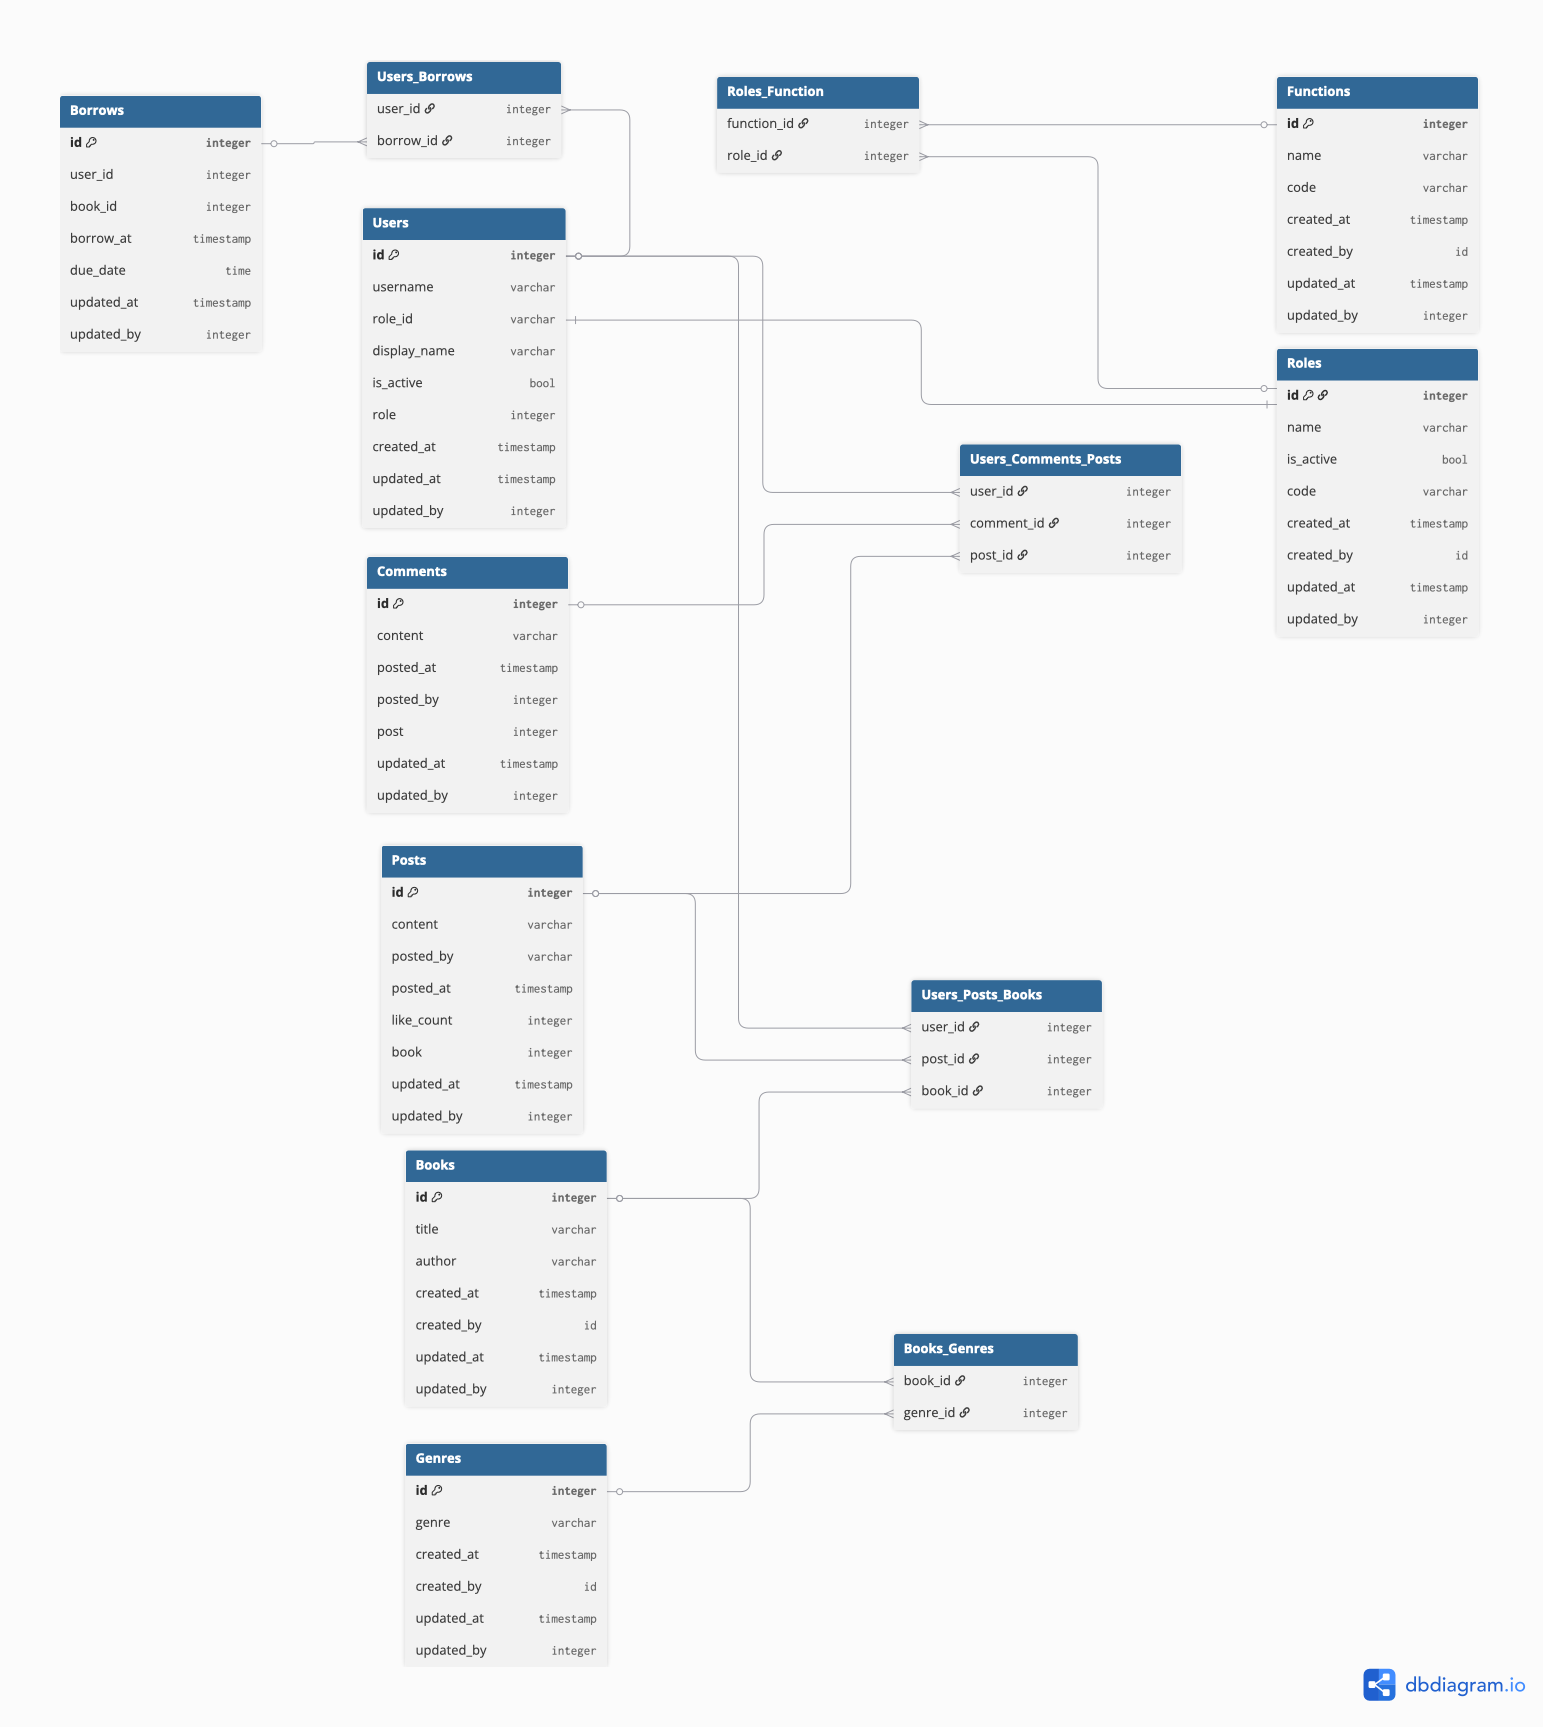
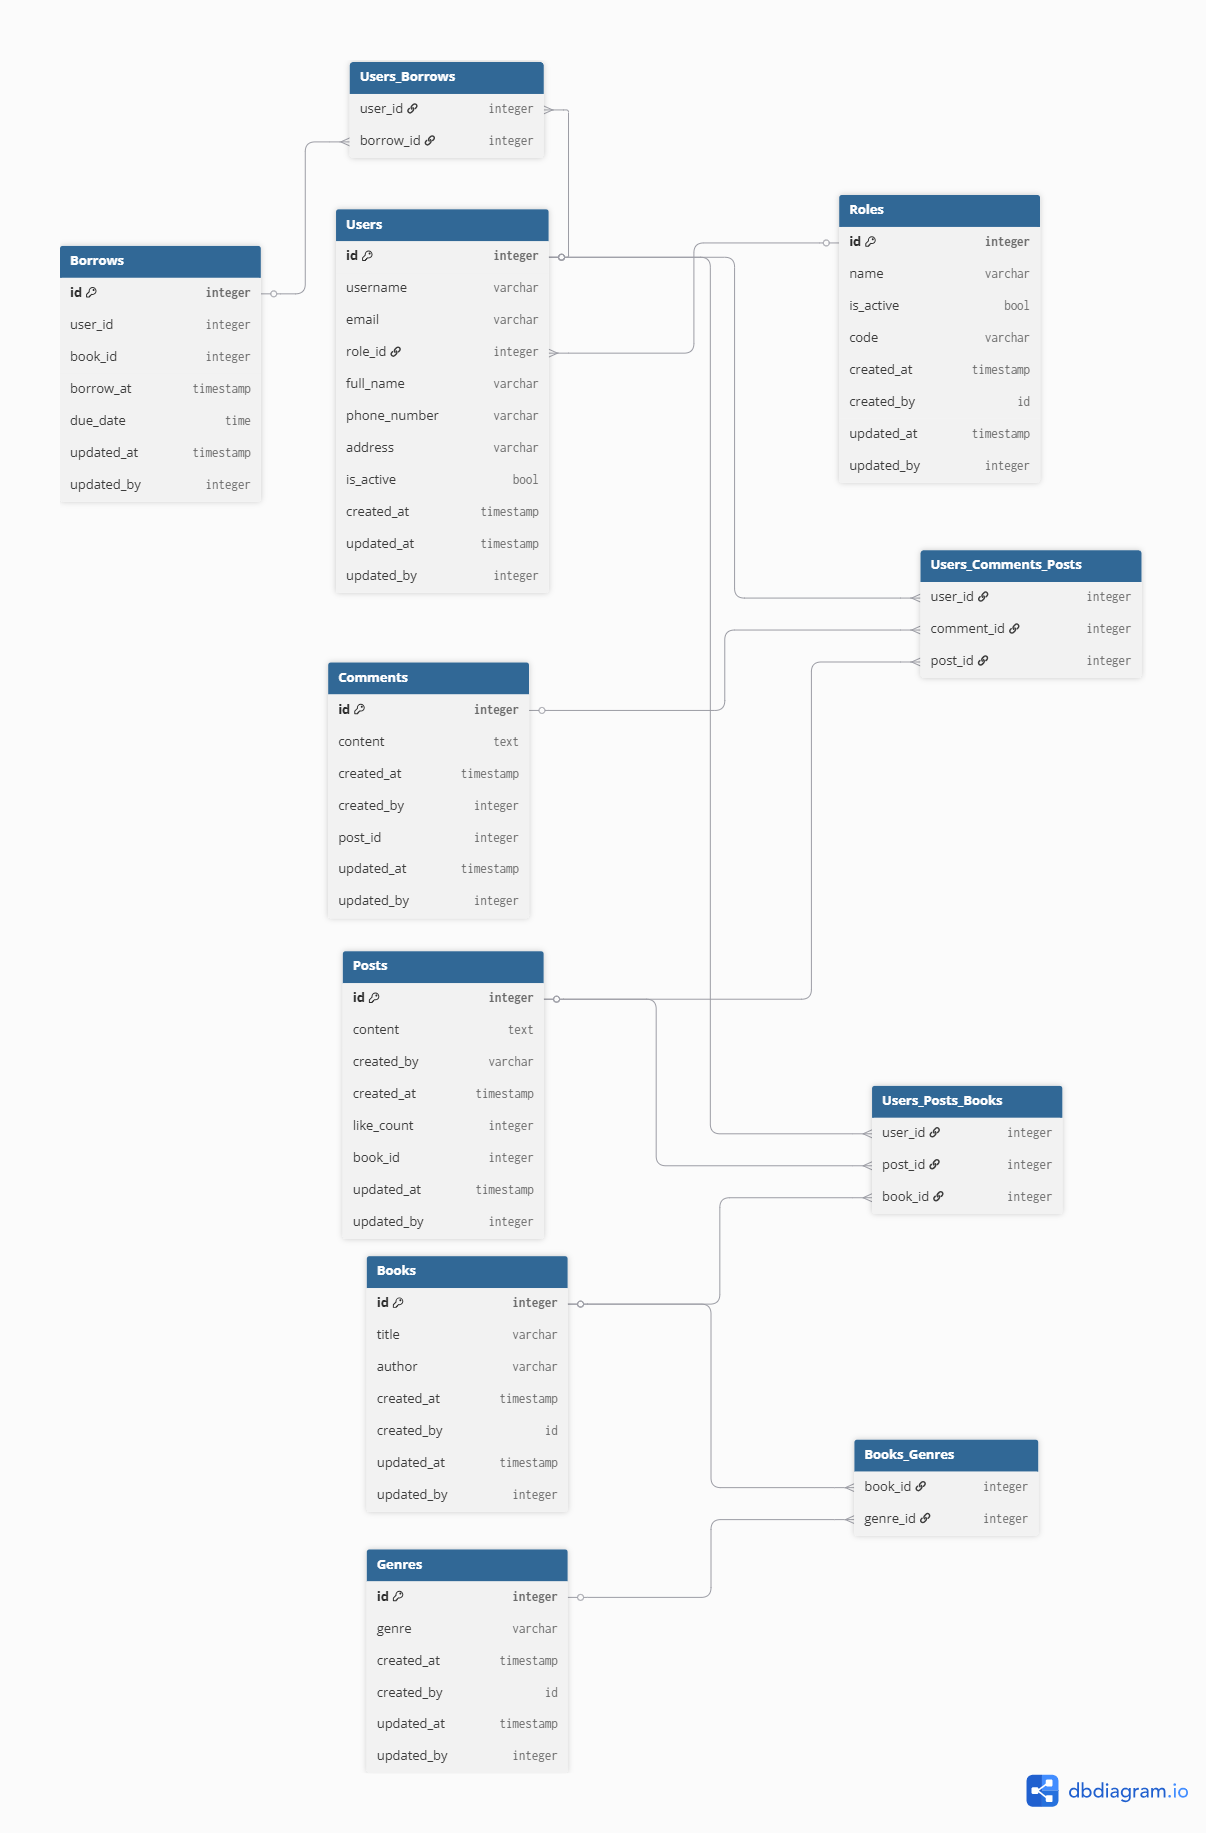
Add models

diff --git a/src/main/java/com/example/library_management/service/AuthService.java b/src/main/java/com/example/library_management/service/AuthService.java
@@ -8,6 +8,7 @@ import com.example.library_management.dto.UserResponse;
 import com.example.library_management.exception.AuthException;
 import com.example.library_management.model.Role;
 import com.example.library_management.model.User;
+import com.example.library_management.repository.RoleRepository;
 import com.example.library_management.repository.UserRepository;
 import org.springframework.beans.factory.annotation.Autowired;
 import org.springframework.security.authentication.AuthenticationManager;
@@ -24,6 +25,9 @@ public class AuthService {
     private UserRepository userRepository;
 
     @Autowired
+    private RoleRepository roleRepository;
+
+    @Autowired
     private PasswordEncoder passwordEncoder;
 
     @Autowired
@@ -31,23 +35,6 @@ public class AuthService {
 
     @Autowired
     private JwtUtil jwtUtil;
-
-//    public LoginResponse login(LoginRequest request) {
-//        // authenticate — throws exception if wrong credentials
-//        Authentication auth = authenticationManager.authenticate(
-//                new UsernamePasswordAuthenticationToken(
-//                        request.getUsername(),
-//                        request.getPassword()
-//                )
-//        );
-//
-//        // generate JWT token
-//        String token = jwtUtil.generateToken(auth.getName());
-//
-//        User user = userRepository.findByUsername(auth.getName()).orElseThrow();
-//
-//        return new LoginResponse(token, user.getUsername(), user.getRole().name());
-//    }
 
     public LoginResponse login(LoginRequest request) {
         try {
@@ -60,7 +47,7 @@ public class AuthService {
 
             String token = jwtUtil.generateToken(auth.getName());
             User user = userRepository.findByUsername(auth.getName()).orElseThrow();
-            return new LoginResponse(token, user.getUsername(), user.getRole().name());
+            return new LoginResponse(token, user.getUsername(), user.getRole().getName());
 
         } catch (org.springframework.security.authentication.BadCredentialsException e) {
             throw new AuthException("Invalid username or password");
@@ -72,10 +59,15 @@ public class AuthService {
             throw new RuntimeException("Username already taken");
         }
 
+        Role defaultRole = roleRepository.findByName("ROLE_USER")
+                .orElseThrow(() -> new RuntimeException("Error: Default Role 'ROLE_USER' not found in the database."));
+
         User user = new User();
         user.setUsername(request.getUsername());
+        user.setFullName(request.getFullName());
+        user.setPhoneNumber(request.getPhoneNumber());
         user.setPassword(passwordEncoder.encode(request.getPassword()));
-        user.setRole(Role.ROLE_USER);
+        user.setRole(defaultRole);
 
         userRepository.save(user);
         return "User registered successfully";
@@ -89,11 +81,14 @@ public class AuthService {
 
         User user = userRepository.findByUsername(username)
                 .orElseThrow(() -> new RuntimeException("User not found"));
-
         return new UserResponse(
                 user.getId(),
                 user.getUsername(),
-                user.getRole().name(),
+                user.getRole().getName(),
+                user.getPhoneNumber(),
+                user.getFullName(),
+                user.getAddress(),
+                user.getEmail(),
                 user.getCreatedAt(),
                 user.getUpdatedAt()
         );

diff --git a/src/main/java/com/example/library_management/model/Borrow.java b/src/main/java/com/example/library_management/model/Borrow.java
@@ -1,0 +1,37 @@
+package com.example.library_management.model;
+
+import jakarta.persistence.*;
+import lombok.Data;
+import lombok.EqualsAndHashCode;
+import lombok.NoArgsConstructor;
+
+import java.time.LocalDateTime;
+
+@Data
+@Entity
+@Table(name = "borrows")
+@NoArgsConstructor
+@EqualsAndHashCode(callSuper = true)
+public class Borrow extends BaseEntity{
+    @Id
+    @GeneratedValue(strategy = GenerationType.IDENTITY)
+    private long id;
+
+    @ManyToOne
+    @JoinTable(
+            name = "Users_Borrows",
+            joinColumns = @JoinColumn(name = "borrow_id"),
+            inverseJoinColumns = @JoinColumn(name = "user_id")
+    )
+    private User user;
+
+    @ManyToOne
+    @JoinColumn(name = "book_id")
+    private Book book;
+
+    @Column(name = "borrow_at", nullable = false)
+    private LocalDateTime borrowAt;
+
+    @Column(name = "due_date", nullable = false)
+    private LocalDateTime dueDate;
+}

diff --git a/src/main/java/com/example/library_management/model/Book.java b/src/main/java/com/example/library_management/model/Book.java
@@ -1,0 +1,33 @@
+package com.example.library_management.model;
+
+import jakarta.persistence.*;
+import lombok.Data;
+import lombok.EqualsAndHashCode;
+import lombok.NoArgsConstructor;
+
+import java.util.List;
+
+@Entity
+@Table(name = "books")
+@Data
+@NoArgsConstructor
+@EqualsAndHashCode(callSuper = true)
+public class Book extends BaseEntity {
+    @Id
+    @GeneratedValue(strategy = GenerationType.IDENTITY)
+    private long id;
+
+    @Column(nullable = false, length = 255)
+    private String title;
+
+    @Column(nullable = false, length = 255)
+    private long author;
+
+    @ManyToMany
+    @JoinTable(
+            name = "Books_Genres",
+            joinColumns = @JoinColumn(name = "book_id"),
+            inverseJoinColumns = @JoinColumn(name = "genre_id")
+    )
+    private List<Genre> genres;
+}

diff --git a/src/main/java/com/example/library_management/model/User.java b/src/main/java/com/example/library_management/model/User.java
@@ -19,12 +19,21 @@ public class User extends BaseEntity {
     @Column(nullable = false, length = 255)
     private String username;
 
-    @Enumerated(EnumType.STRING)
-    @Column(nullable = false)
+    @ManyToOne(fetch = FetchType.EAGER)
+    @JoinColumn(name = "role_id", nullable = false)
     private Role role;
 
-    @Column(name = "display_name")
-    private String displayName;
+    @Column(name = "full_name", nullable = false)
+    private String fullName;
+
+    @Column(name = "phone_number", nullable = false, length = 10)
+    private String phoneNumber;
+
+    @Column(length = 255)
+    private String address;
+
+    @Column(length = 255)
+    private String email;
 
     @Column(nullable = false, length = 255)
     private String password;

diff --git a/src/main/java/com/example/library_management/model/Comment.java b/src/main/java/com/example/library_management/model/Comment.java
@@ -3,17 +3,21 @@ package com.example.library_management.model;
 import jakarta.persistence.*;
 import lombok.Data;
 import lombok.EqualsAndHashCode;
-import lombok.NoArgsConstructor;
 
 @Data
 @Entity
-@Table(name = "roles")
+@Table(name = "comments")
 @EqualsAndHashCode(callSuper = true)
-public class Role extends BaseEntity{
+public class Comment extends BaseEntity {
     @Id
     @GeneratedValue(strategy = GenerationType.IDENTITY)
     private long id;
 
-    @Column(nullable = false, unique = true, length = 50)
-    private String name;
+    @Lob
+    @Column(nullable = false)
+    private String content;
+
+    @ManyToOne
+    @JoinColumn(name = "post_id")
+    private Post post;
 }

diff --git a/src/main/java/com/example/library_management/model/Post.java b/src/main/java/com/example/library_management/model/Post.java
@@ -1,0 +1,26 @@
+package com.example.library_management.model;
+
+import jakarta.persistence.*;
+import lombok.Data;
+import lombok.EqualsAndHashCode;
+
+@Data
+@Entity
+@Table(name = "posts")
+@EqualsAndHashCode(callSuper = true)
+public class Post extends BaseEntity{
+    @Id
+    @GeneratedValue(strategy = GenerationType.IDENTITY)
+    private long id;
+
+    @Lob
+    @Column(nullable = false)
+    private String content;
+
+    @ManyToOne
+    @JoinColumn(name = "book_id")
+    private Book book;
+
+    @Column(name = "like_count", nullable = false)
+    private long likeCount;
+}

diff --git a/src/main/java/com/example/library_management/config/AuditorAwareImpl.java b/src/main/java/com/example/library_management/config/AuditorAwareImpl.java
@@ -1,5 +1,6 @@
 package com.example.library_management.config;
 
+import lombok.NonNull;
 import org.springframework.data.domain.AuditorAware;
 import org.springframework.security.core.Authentication;
 import org.springframework.security.core.context.SecurityContextHolder;
@@ -10,6 +11,7 @@ import java.util.Optional;
 @Component
 public class AuditorAwareImpl implements AuditorAware<String> {
     @Override
+    @NonNull
     public Optional<String> getCurrentAuditor() {
         return Optional.ofNullable(
                 SecurityContextHolder.getContext().getAuthentication()

diff --git a/src/main/java/com/example/library_management/model/Genre.java b/src/main/java/com/example/library_management/model/Genre.java
@@ -5,15 +5,18 @@ import lombok.Data;
 import lombok.EqualsAndHashCode;
 import lombok.NoArgsConstructor;
 
-@Data
 @Entity
-@Table(name = "roles")
+@Data
+@Table(name = "genre")
+@NoArgsConstructor
 @EqualsAndHashCode(callSuper = true)
-public class Role extends BaseEntity{
+public class Genre extends BaseEntity{
     @Id
     @GeneratedValue(strategy = GenerationType.IDENTITY)
     private long id;
 
-    @Column(nullable = false, unique = true, length = 50)
-    private String name;
+    @Column(nullable = false, length = 255)
+    private String genre;
+
+
 }

diff --git a/src/main/java/com/example/library_management/repository/RoleRepository.java b/src/main/java/com/example/library_management/repository/RoleRepository.java
@@ -1,0 +1,13 @@
+package com.example.library_management.repository;
+
+import com.example.library_management.model.Role;
+import com.example.library_management.model.User;
+import org.springframework.data.jpa.repository.JpaRepository;
+import org.springframework.stereotype.Repository;
+
+import java.util.Optional;
+
+@Repository
+public interface RoleRepository extends JpaRepository<Role, Long> {
+    Optional<Role> findByName(String name);
+}

diff --git a/src/main/java/com/example/library_management/service/UserDetailsServiceImpl.java b/src/main/java/com/example/library_management/service/UserDetailsServiceImpl.java
@@ -23,7 +23,7 @@ public class UserDetailsServiceImpl implements UserDetailsService {
         return org.springframework.security.core.userdetails.User
                 .withUsername(user.getUsername())
                 .password(user.getPassword())
-                .authorities(user.getRole().name())
+                .authorities(user.getRole().getName())
                 .build();
     }
 }

diff --git a/src/main/java/com/example/library_management/dto/UserResponse.java b/src/main/java/com/example/library_management/dto/UserResponse.java
@@ -11,6 +11,10 @@ public class UserResponse {
     private Long id;
     private String username;
     private String role;
+    private String phoneNumber;
+    private String fullName;
+    private String address = null;
+    private String email = null;
     private LocalDateTime createdAt;
     private LocalDateTime updatedAt;
 }

diff --git a/src/main/java/com/example/library_management/model/BaseEntity.java b/src/main/java/com/example/library_management/model/BaseEntity.java
@@ -30,8 +30,8 @@ public abstract class BaseEntity {
     private String updatedBy;
 
     @Column(name = "is_active")
-    private boolean isActive = true;
+    private Boolean isActive = true;
 
     @Column(name = "is_deleted")
-    private boolean isDeleted = false;
+    private Boolean isDeleted = false;
 }
